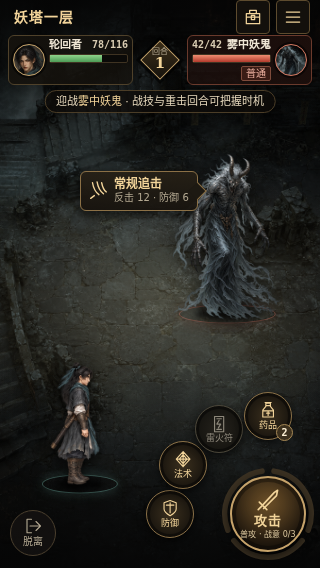
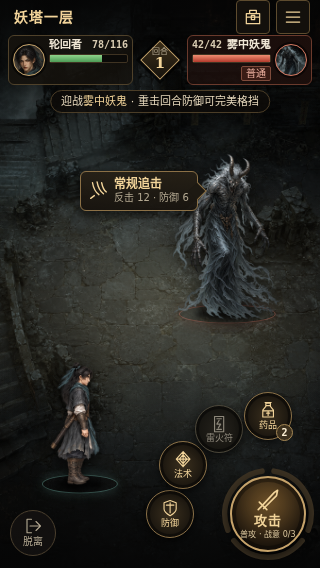
feat(infinite-flow): keep only heavy-blow perfect parry in combat v2
Drop the weapon-skill crit check from the prototype. The only timing
check left is guarding against a telegraphed heavy blow; the weapon
skill keeps a heavier double slash and hit-stop without a check.

Changed region(s): [[0.1562, 0.1496, 0.8438, 0.2095]]

diff --git a/infinite-flow-wechat/prototype/combat-v2/app.js b/infinite-flow-wechat/prototype/combat-v2/app.js
@@ -56,7 +56,6 @@ function setHeroFrame(index) {
 const CANCELLED = Symbol('cancelled');
 const MAX_HP = 116;
 const DAMAGE = { attack: 18, weapon: 32, art: 24, talisman: 30 };
-const CRIT_RATE = 1.5;
 const OFFENSIVE = new Set(['attack', 'weapon', 'art', 'talisman']);
 const NAMES = { attack: '普攻', weapon: '战技·裂空斩', art: '术法', talisman: '雷火符', guard: '防御', pill: '止血丹', mist: '归息', iron: '镇岳' };
 let state;
@@ -87,7 +86,7 @@ function reset() {
   enemyEl.querySelector('.enemy-art').style.height = boss ? 'calc(var(--enemy-h) * 1.12)' : '';
   if (sheet.open) sheet.close();
   setHeroFrame(8);
-  ticker(`迎战<em>${state.enemyName}</em> · 战技与重击回合可把握时机`);
+  ticker(`迎战<em>${state.enemyName}</em> · 重击回合防御可完美格挡`);
   render();
 }
 
@@ -130,7 +129,7 @@ function render() {
   $('#attack-icon').dataset.icon = ready ? 'weapon' : 'attack';
   paintIcons(attack);
   $('#attack-label').textContent = ready ? '战技' : '攻击';
-  $('#attack-mode').textContent = ready ? '裂空斩 · 可会心' : `普攻 · 战意 ${state.focus}/3`;
+  $('#attack-mode').textContent = ready ? '裂空斩 · 战意满' : `普攻 · 战意 ${state.focus}/3`;
   attack.querySelectorAll('.seg').forEach((seg, index) => seg.classList.toggle('on', index < state.focus));
   attack.setAttribute('aria-label', ready ? '释放武器战技裂空斩' : `普通攻击，战意 ${state.focus}/3`);
 
@@ -265,23 +264,21 @@ async function lean(element, degrees, ms, gen) {
 }
 
 // ---------- Timing check ----------
-// The ring shrinks at a constant speed; overlapping the gold band when tapped is "perfect".
-function timing(mode, gen) {
-  const strike = mode === 'strike';
-  const center = strike ? enemyChest() : heroChest();
-  const unit = strike ? enemyH() / 262 : heroH() / 200;
+// Parry only: the ring shrinks at a constant speed; overlapping the target band when tapped is "perfect".
+function parryTiming(gen) {
+  const center = heroChest();
+  const unit = heroH() / 200;
   const start = 128 * unit;
   const end = 10 * unit;
-  const target = (strike ? 44 : 50) * unit;
+  const target = 50 * unit;
   const half = 11 * unit;
-  const duration = ($('#assist').checked ? 1.7 : 1) * (strike ? 950 : 900);
-  const color = strike ? '#f2c475' : '#ff7a62';
+  const duration = ($('#assist').checked ? 1.7 : 1) * 900;
+  const color = '#ff7a62';
   const band = svg('circle', { cx: center.x, cy: center.y, r: target, fill: 'none', stroke: color, 'stroke-width': half * 2, opacity: .22 });
   const guide = svg('circle', { cx: center.x, cy: center.y, r: target, fill: 'none', stroke: color, 'stroke-width': 2, opacity: .9 });
   const ring = svg('circle', { cx: center.x, cy: center.y, r: start, fill: 'none', stroke: '#fff', 'stroke-width': 3 });
-  showHint(strike ? '金圈重合时点击 · 会心' : '红圈收拢时点击 · 完美格挡', strike ? center.y + start + 8 : center.y - start - 40, !strike);
+  showHint('红圈收拢时点击 · 完美格挡', center.y - start - 40);
   game.classList.add('qte');
-  $('#attack').classList.toggle('aiming', strike);
   return new Promise((resolve, reject) => {
     const begun = performance.now();
     let done = false;
@@ -292,7 +289,6 @@ function timing(mode, gen) {
       window.removeEventListener('pointerdown', onTap, true);
       window.removeEventListener('keydown', onKey, true);
       game.classList.remove('qte');
-      $('#attack').classList.remove('aiming');
       hideHint();
       window.__qte = { active: false, grade };
       ring.setAttribute('stroke', grade === 'perfect' ? color : '#888');
@@ -316,18 +312,17 @@ function timing(mode, gen) {
       ring.setAttribute('r', r);
       const inBand = Math.abs(r - target) <= half;
       guide.setAttribute('stroke-width', inBand ? 4 : 2);
-      window.__qte = { active: true, mode, r, target, half, inBand };
+      window.__qte = { active: true, r, target, half, inBand };
       if (now - begun >= duration) finish('normal');
       else requestAnimationFrame(frame);
     };
     requestAnimationFrame(frame);
   });
 }
-function showHint(text, y, defend) {
+function showHint(text, y) {
   const hint = $('#qte-hint');
   hint.textContent = text;
   hint.style.top = `${Math.max(120, Math.min(y, game.clientHeight - 260))}px`;
-  hint.classList.toggle('defend', defend);
   hint.classList.add('show');
 }
 function hideHint() { $('#qte-hint').classList.remove('show'); }
@@ -439,16 +434,14 @@ async function perform(kind) {
     if (OFFENSIVE.has(kind)) {
       if (kind === 'attack' || kind === 'weapon') { dashed = true; await dashIn(gen); }
       else await castCharge(kind, gen);
-      // Only the weapon skill (a full focus gauge) earns a timing check; everything else strikes at once.
-      if (kind === 'weapon') grade = await timing('strike', gen);
-      dealt = await strike(kind, grade, gen);
+      dealt = await strike(kind, gen);
     } else if (kind === 'guard') {
       shieldMark(heroChest(), '#f2c475', false);
       // Only a telegraphed heavy blow can be parried; an ordinary guard resolves immediately.
       if (intent.heavy) {
         enemyEl.classList.add('windup');
         lean(enemyEl, 4, 300, gen).catch(() => {});
-        grade = await timing('parry', gen);
+        grade = await parryTiming(gen);
       }
     } else if (kind === 'pill') {
       await drinkPill(gen);
@@ -484,10 +477,9 @@ async function castCharge(kind, gen) {
   await lean(heroSprite, -4, 220, gen);
 }
 
-async function strike(kind, grade, gen) {
-  const perfect = grade === 'perfect';
+async function strike(kind, gen) {
   const base = kind === 'art' && state.breath ? 32 : DAMAGE[kind];
-  const damage = Math.min(state.enemyHp, perfect ? Math.round(base * CRIT_RATE) : base);
+  const damage = Math.min(state.enemyHp, base);
   const target = enemyChest();
   const color = kind === 'art' ? '#8fe0d2' : '#f2c475';
   heroSprite.getAnimations().forEach(animation => animation.cancel());
@@ -495,27 +487,27 @@ async function strike(kind, grade, gen) {
     setHeroFrame(9);
     animate(heroSprite, [{ transform: 'rotate(0)' }, { transform: 'rotate(8deg) translateX(8px)' }, { transform: 'rotate(0)' }], { duration: 220, fill: 'none' }, gen).catch(() => {});
     slash(target, { color, size: kind === 'weapon' ? 1.25 : 1, width: kind === 'weapon' ? 13 : 9 });
-    if (kind === 'weapon' || perfect) { await wait(80, gen); slash(target, { color: perfect ? '#ffd36b' : color, size: 1.15, width: 11, reverse: true }); }
+    if (kind === 'weapon') { await wait(80, gen); slash(target, { color: '#ffd36b', size: 1.15, width: 11, reverse: true }); }
   } else if (kind === 'art') {
     await projectile(heroChest(), target, color, gen);
   } else if (kind === 'talisman') {
     lightning(target);
   }
-  // Impact: hit-stop, flash, shake, number.
+  // Impact: hit-stop, flash, shake, number. The weapon skill hits harder on screen.
+  const heavy = kind === 'weapon';
   enemyEl.classList.add('flash');
-  sparks(target, color, perfect ? 16 : 10, perfect ? 90 : 60);
-  if (perfect) burst(target, '#ffd36b', 50);
+  sparks(target, color, heavy ? 16 : 10, heavy ? 90 : 60);
+  if (heavy) burst(target, '#ffd36b', 50);
   state.enemyHp -= damage;
   if (kind === 'art') state.breath = false;
   if (kind === 'talisman') state.talismans--;
-  number(`${damage}`, { x: target.x, y: target.y - enemyH() * .2 }, perfect ? 'crit' : '');
+  number(`${damage}`, { x: target.x, y: target.y - enemyH() * .2 }, heavy ? 'skill' : '');
   render();
-  const stop = perfect ? 110 : 70;
-  await wait(stop, gen);
+  await wait(heavy ? 110 : 70, gen);
   enemyEl.classList.remove('flash');
-  const push = perfect ? 18 : 10;
+  const push = heavy ? 18 : 10;
   animate(enemyEl, [{ transform: 'translate(0,0)' }, { transform: `translate(${push}px,-2px)` }, { transform: 'translate(0,0)' }], { duration: 240, fill: 'none' }, gen).catch(() => {});
-  await shake(perfect ? 9 : 5, gen);
+  await shake(heavy ? 9 : 5, gen);
   setHeroFrame(8);
   return damage;
 }
@@ -579,7 +571,7 @@ async function methodTechnique(kind, gen) {
 function report(kind, grade, dealt, taken, intent) {
   const perfect = grade === 'perfect';
   const parts = [`第 ${state.turn - 1} 回合`];
-  if (OFFENSIVE.has(kind)) parts.push(`${NAMES[kind]} ${perfect ? '<span class="crit">会心</span> ' : ''}<em>${dealt}</em>`);
+  if (OFFENSIVE.has(kind)) parts.push(`${NAMES[kind]} <em>${dealt}</em>`);
   else if (kind === 'guard') parts.push(perfect ? '<span class="crit">完美格挡</span>' : '防御');
   else parts.push(NAMES[kind]);
   if (state.enemyHp > 0) parts.push(`<span class="hurt">${intent.heavy ? '重击' : '反击'} ${taken}</span>`);
@@ -655,7 +647,7 @@ function openPanel(panel) {
   if (panel === 'menu') {
     openSheet('菜单');
     $('#sheet-content').innerHTML = `<div class="info"><h2>战斗记录</h2><ol>${state.log.length ? state.log.map(line => `<li>${line}</li>`).join('') : '<li>尚未采取行动。</li>'}</ol></div>
-      <div class="info"><h2>时机操作</h2><p>只在两个关键时刻出现：战意攒满释放战技时，白圈与金圈重合点击打出会心（伤害 ×1.5）；敌人预告重击时按防御，红圈收拢点击完美格挡（承伤减半，战意额外 +1）。</p><p>普通攻击、普通防御、术法、符箓、药品都直接结算。不点或点偏按普通结算。</p></div>`;
+      <div class="info"><h2>时机操作</h2><p>只在敌人预告重击时出现：按防御后，红圈收拢到护盾时点击，完美格挡（承伤减半，战意额外 +1）。</p><p>其余行动都直接结算。不点或点偏按普通防御结算。</p></div>`;
   } else {
     openSheet('背包');
     $('#sheet-content').innerHTML = `<div class="info"><p>止血丹 × ${state.pills}</p><p>雷火符 × ${state.talismans}</p></div>`;

diff --git a/infinite-flow-wechat/prototype/combat-v2/style.css b/infinite-flow-wechat/prototype/combat-v2/style.css
@@ -232,19 +232,16 @@ body.shot .game { height: 100dvh; border: none; }
 .attack.ready .attack-core { background: radial-gradient(circle at 50% 35%, #b37c2a, #4a2c0c 72%); border-color: #ffe0a0; box-shadow: 0 0 0 3px #f2c47555, 0 0 26px #f2c475aa, inset 0 0 0 4px #0004; animation: ready-glow 1.2s ease-in-out infinite; }
 .attack.ready .attack-core small { color: #fff0cc; }
 @keyframes ready-glow { 50% { box-shadow: 0 0 0 6px #f2c47533, 0 0 34px #f2c475dd, inset 0 0 0 4px #0004; } }
-.attack.aiming .attack-core { border-color: #fff; animation: aim 0.35s ease-in-out infinite alternate; }
-@keyframes aim { to { transform: scale(1.06); } }
 
 /* FX overlay and timing prompt */
 .fx { position: absolute; inset: 0; width: 100%; height: 100%; overflow: visible; pointer-events: none; z-index: 4; }
 .qte-hint {
   position: absolute; left: 50%; transform: translate(-50%, 0); z-index: 7; pointer-events: none;
   padding: 5px 12px; border-radius: 14px; font-size: 13px; font-weight: 600; letter-spacing: .04em; white-space: nowrap;
-  color: #2a1505; background: linear-gradient(#ffe2a4, #e3b261); box-shadow: 0 2px 10px #000a, 0 0 16px #f2c47577;
+  color: #fff; background: linear-gradient(#e46f5b, #9c3a2e); box-shadow: 0 2px 10px #000a, 0 0 16px #e5806f88;
   opacity: 0; transition: opacity .12s;
 }
 .qte-hint.show { opacity: 1; }
-.qte-hint.defend { color: #fff; background: linear-gradient(#e46f5b, #9c3a2e); box-shadow: 0 2px 10px #000a, 0 0 16px #e5806f88; }
 .banner {
   position: absolute; left: 50%; top: 34%; z-index: 7; pointer-events: none; text-align: center; white-space: nowrap; translate: -50% 0;
   font: 800 34px/1 "Songti SC", "STSong", serif; letter-spacing: .18em; color: #ffe2a0;
@@ -260,8 +257,7 @@ body.shot .game { height: 100dvh; border: none; }
   font: 800 30px/1 Georgia, serif; color: #fff1d0; text-shadow: 0 2px 0 #4b2a08, 0 0 10px #000, 0 4px 10px #000;
   animation: pop 0.9s cubic-bezier(.2, 1.4, .4, 1) forwards;
 }
-.number.crit { font-size: 44px; color: #ffd36b; text-shadow: 0 0 14px #ff9d1e, 0 3px 0 #5a2a00, 0 6px 14px #000; }
-.number.crit::before { content: "会心"; display: block; font: 700 14px/1.2 "Songti SC", serif; letter-spacing: .2em; text-align: center; color: #fff1c4; }
+.number.skill { font-size: 40px; color: #ffd36b; text-shadow: 0 0 14px #ff9d1e, 0 3px 0 #5a2a00, 0 6px 14px #000; }
 .number.hurt { color: #ff9b86; text-shadow: 0 2px 0 #4b0d05, 0 0 10px #000; font-size: 26px; }
 .number.heal { color: #b6f2a8; text-shadow: 0 2px 0 #12360d, 0 0 10px #000; }
 .number.small { font-size: 20px; }
@@ -317,7 +313,7 @@ dialog::backdrop { background: #0004; }
   .flee { width: 46px; height: 46px; bottom: 12px; left: 10px; }
   .banner { font-size: 28px; }
   .number { font-size: 24px; }
-  .number.crit { font-size: 34px; }
+  .number.skill { font-size: 32px; }
 }
 @media (max-width: 350px) {
   .side { padding: 0 4px; gap: 4px; }
@@ -326,7 +322,7 @@ dialog::backdrop { background: #0004; }
   .chapter-line span { display: none; }
 }
 @media (prefers-reduced-motion: reduce) {
-  .intent-bubble.danger, .skill.recommended, .attack.ready .attack-core, .attack.aiming .attack-core { animation: none; }
+  .intent-bubble.danger, .skill.recommended, .attack.ready .attack-core { animation: none; }
 }
 .game.qte .controls, .game.qte .topbar { pointer-events: none; }
 .game.qte .world-layer { cursor: pointer; }
